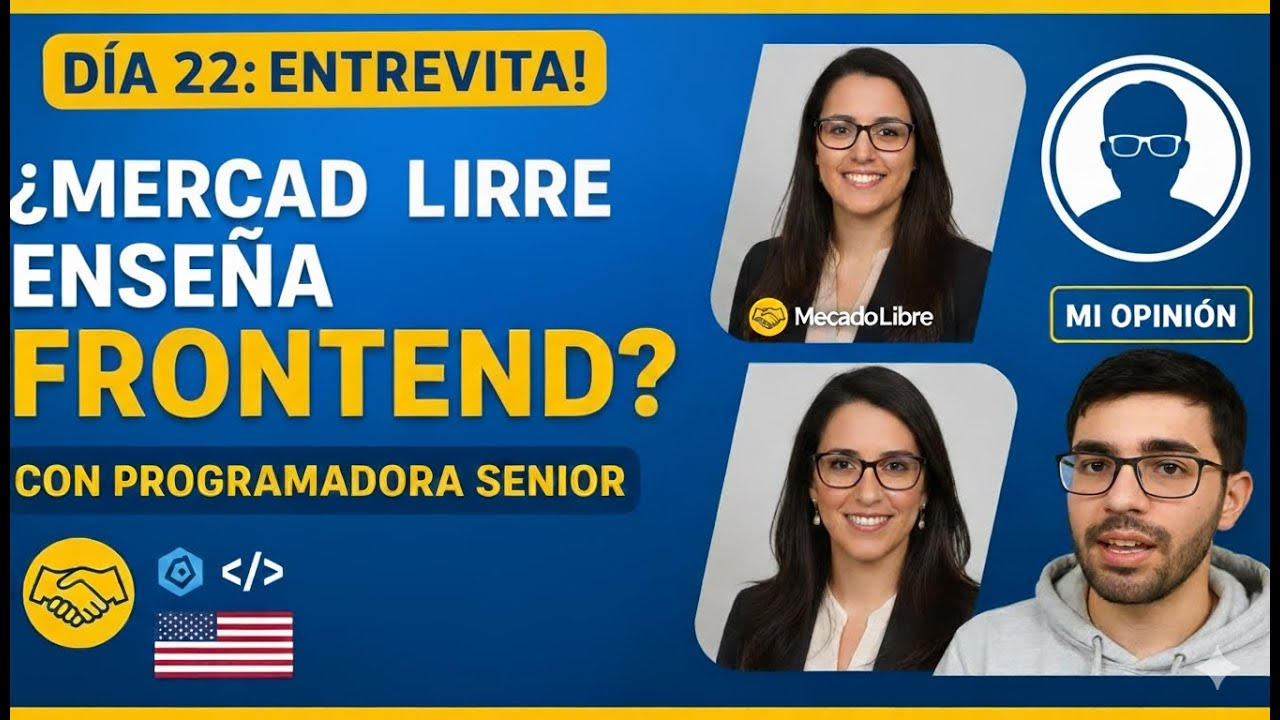
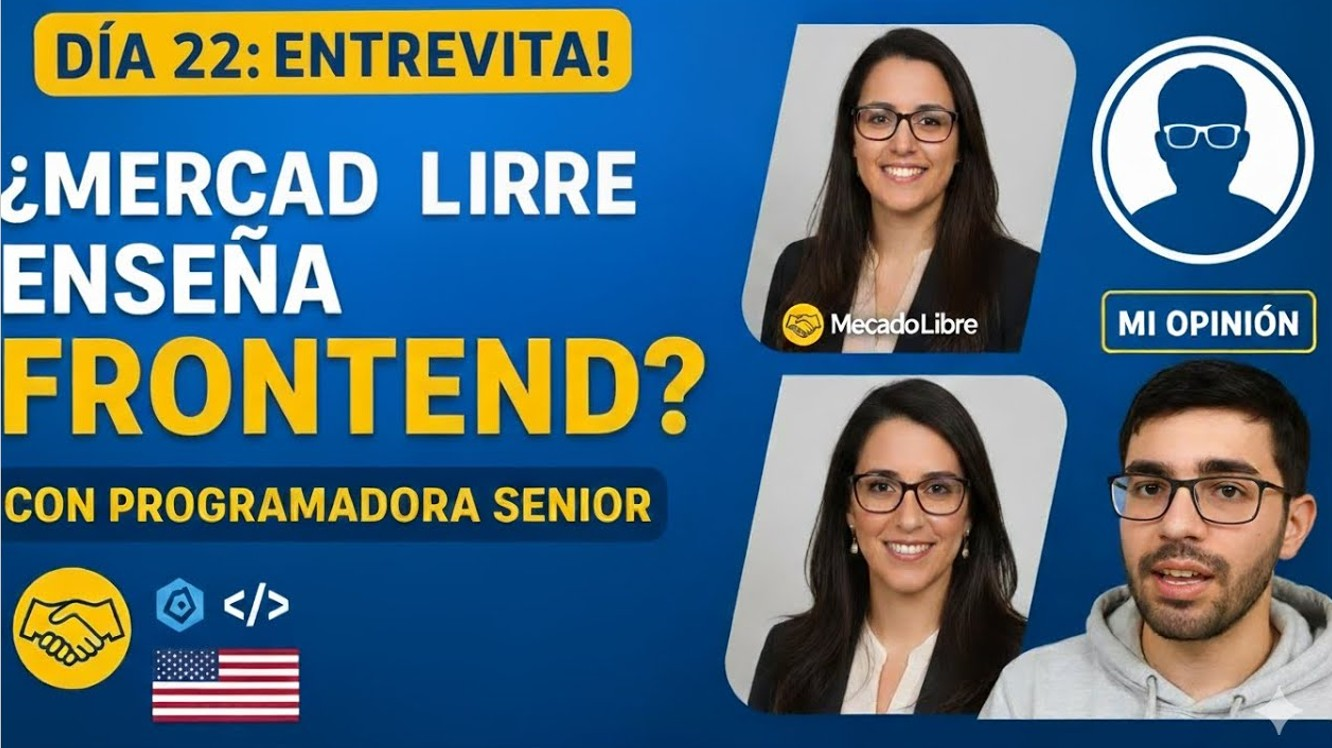
n

diff --git a/index.html b/index.html
@@ -280,42 +280,10 @@
    <div class="cards-container">
     <div class="card" style="width: 22rem;">
       <div class="hover-container" tabindex="0">
-       <img src="Img/entrevista4.jpg" class="card-img-top" alt="PruebaTécnica1">
-          <div class="card-body">
-            <h5 class="card-title">Entrevista a dos programadores Full Stack Freelance!!</h5>
-            <p class="card-text">En esta entrevista, hablamos con dos programadores Full Stack freelance de Perú. Nos
-              cuentan sus experiencias trabajando de forma independiente, los retos que enfrentan, cómo gestionan su
-              tiempo
-              y sus mejores consejos para quienes quieren seguir sus caminos. También comparten cómo se mantienen
-              actualizados en un mundo tecnológico.
-            </p>
-            <a href="https://www.youtube.com/watch?v=KZigJ1Zjsis" class="btn btn-primary btn-video" target="_blank">Ver
-              Video</a>
-          </div>
-      </div>
-    </div>
-    <div class="card" style="width: 22rem;">
-      <div class="hover-container" tabindex="0">
-    <img src="Img/entrevista5.jpg" class="card-img-top" alt="PruebaTécnica2">
-        <div class="card-body">
-          <h5 class="card-title">Entrevista con un Programador con mas de 5 años de Experiencia!!</h5>
-          <p class="card-text">En esta entrevista coversamos con Ex Programadora FrontEnd en Mercado Libre comparte su experiencia profesional trabajando con React, Vue y Angular, además de su pasión por el diseño UI, mostrando cómo estas herramientas y buenas prácticas han marcado su camino en el desarrollo web."
-          </p>
-          <a href="https://www.youtube.com/watch?v=RcUS9L8R0QI" class="btn btn-primary btn-video" target="_blank">Ver
-            Video</a>
-        </div>
-      </div>
-    </div>
-    <div class="card" style="width: 22rem;">
-      <div class="hover-container" tabindex="0">
         <img src="Img/entrevista6.jpg" class="card-img-top" alt="PruebaTécnica3">
         <div class="card-body">
-          <h5 class="card-title">La mejores paginas y plataformas para aprender programación!!</h5>
-          <p class="card-text">En este video te muestro recursos gratuitos hasta páginas de paga, te compartiré
-            herramientas y consejos para que puedas avanzar rápidamente en tu aprendizaje. ¡Descubre cómo mejorar tus
-            habilidades de programación con los mejores recursos disponibles! Aqui aprenderás a aprovechar al máximo
-            cada
-            recurso.
+          <h5 class="card-title">Entrevista a Ex Programadora de Mercado Libre</h5>
+          <p class="card-text">Ex Programadora FrontEnd en Mercado Libre comparte su experiencia profesional trabajando con React, Vue y Angular, además de su pasión por el diseño UI, mostrando cómo estas herramientas y buenas prácticas han marcado su camino en el desarrollo web.
           </p>
           <a href="https://www.youtube.com/watch?v=6LuIhhDPU1U"
             class="btn btn-primary btn-video" target="_blank">Ver Video</a>
@@ -358,6 +326,7 @@
               opciones poco útiles. Elige el camino correcto hacia tu futuro como programador, aprovechando al máximo
               cada
               etapa de tu formación.
+              Encuentra el instituto que se adapte a tu ritmo, tus metas y tu presupuesto, y comienza hoy mismo tu camino hacia una carrera sólida en el mundo del desarrollo web.
             </p>
             <a href="https://www.youtube.com/watch?v=1iobynslXwA" class="btn btn-primary btn-video" target="_blank">Ver
               Video</a>
@@ -398,6 +367,7 @@
             sin inconvenientes, encontrando la opción que mejor se adapte a tu flujo de trabajo, optimizando tu
             productividad y garantizando una experiencia de programación fluida en todo momento. Además, conocerás sus
             ventajas, desventajas y para qué tipo de uso es.
+            También descubrirás cuál es la opción ideal según tu nivel de experiencia y el tipo de proyectos que desarrolles.
           </p>
           <a href="https://www.youtube.com/watch?v=H3MZBLwA6D4" class="btn btn-primary btn-video" target="_blank">Ver
             Video</a>
